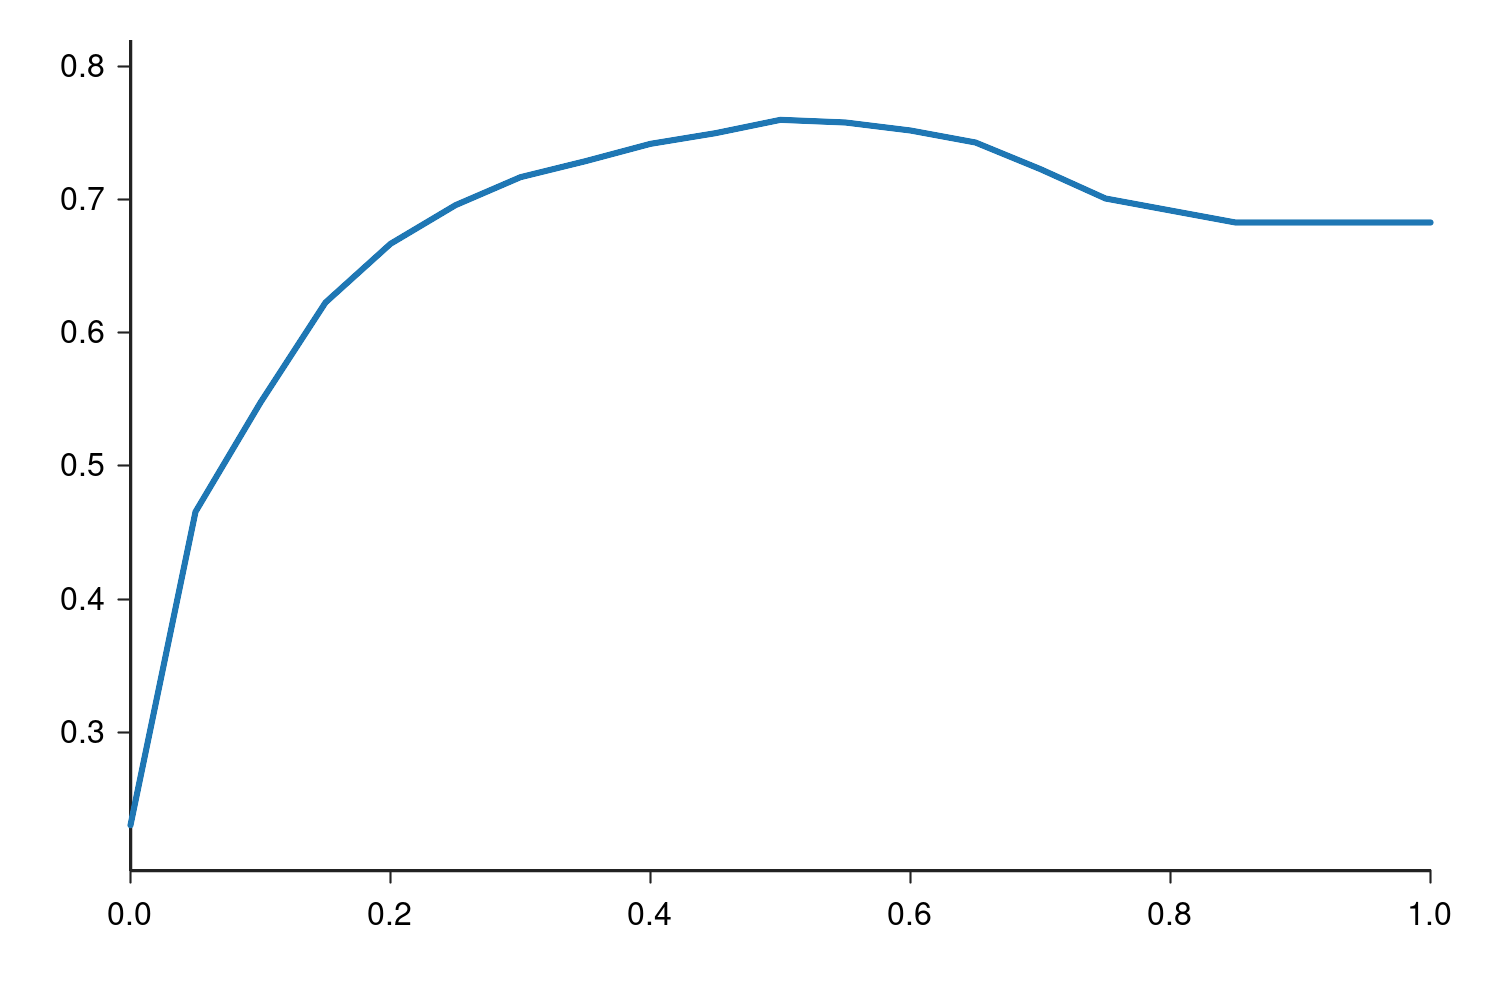
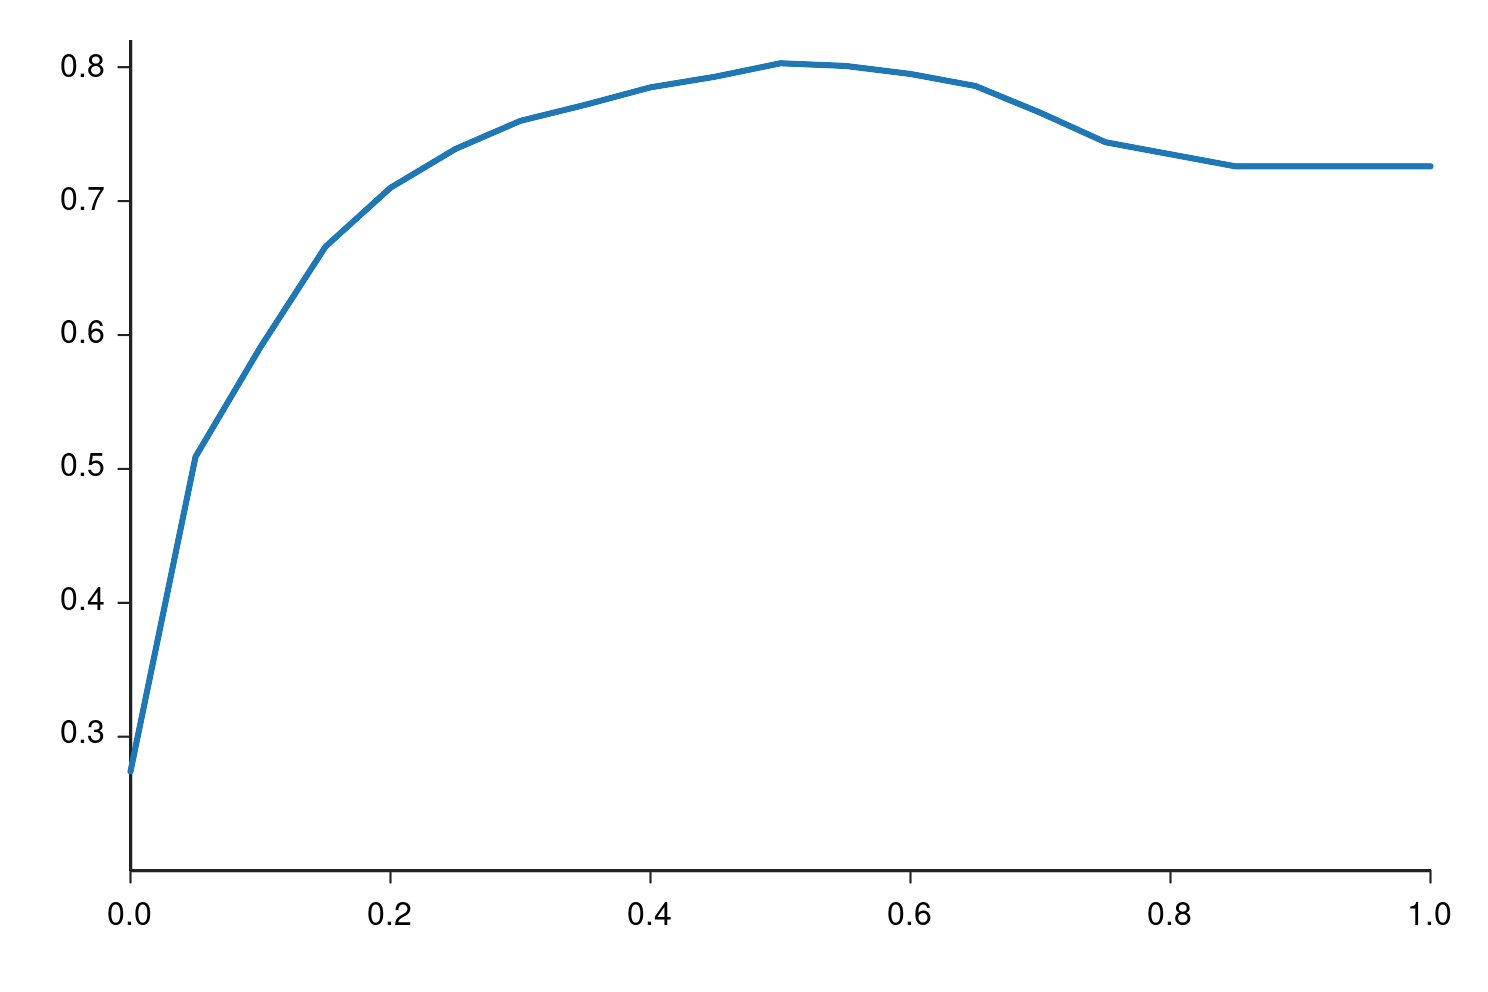
Repair accuracy threshold evaluation illustration

diff --git a/cohorts/2026/04-evaluation/images/2026-09-08-accuracy-repair-provenance.md b/cohorts/2026/04-evaluation/images/2026-09-08-accuracy-repair-provenance.md
@@ -1,0 +1,48 @@
+# Evaluation illustration repair provenance — 2026-09-08
+
+## Scope
+
+This record covers one published illustration and one Markdown reference:
+
+- `02-accuracy-01-accuracy-vs-threshold-crisp.png` was rebuilt from the 21 values printed in `../02-accuracy.md`.
+- The image reference to `03-confusion-table-07-accuracy-from-table-crisp.png` was removed from `../03-confusion-table.md` because the lesson already contains the native confusion table/output and the screenshot contains the incorrect `FP 8%` value. The JPG and PNG source assets were intentionally left in place.
+
+The other 16 unresolved evaluation assets are out of scope and are not being marked complete by this repair.
+
+## Accuracy plot source data
+
+The source of truth is the lesson output block in `../02-accuracy.md` (the `np.linspace(0, 1, 21)` loop), not the previous screenshot or its old curve:
+
+```text
+threshold: 0.00 0.05 0.10 0.15 0.20 0.25 0.30 0.35 0.40 0.45 0.50 0.55 0.60 0.65 0.70 0.75 0.80 0.85 0.90 0.95 1.00
+accuracy:  0.274 0.509 0.591 0.666 0.710 0.739 0.760 0.772 0.785 0.793 0.803 0.801 0.795 0.786 0.766 0.744 0.735 0.726 0.726 0.726 0.726
+```
+
+The previous PNG peaked around `0.76`; the repaired curve peaks at exactly `0.803` for threshold `0.50`.
+
+## Reproducible render
+
+`02-accuracy-01-accuracy-vs-threshold-source.svg` is a native deterministic SVG. Its comment and `data-*` attributes contain the exact values, and its path uses this explicit transform:
+
+```text
+x = 130 + 1300 * threshold
+y = 870 - (accuracy - 0.2) * 830 / 0.62
+```
+
+The published PNG was rendered from that SVG with ImageMagick:
+
+```bash
+convert -background white -alpha remove -alpha off \
+  02-accuracy-01-accuracy-vs-threshold-source.svg \
+  -depth 8 02-accuracy-01-accuracy-vs-threshold-crisp.png
+```
+
+No imagegen, enlargement, sharpening, or screenshot-derived curve was used. The original JPG remains preserved for historical/source comparison.
+
+## Validation
+
+- The source SVG and published PNG are both `1488×992`.
+- The path has 21 points at thresholds `0.00` through `1.00` in `0.05` increments.
+- The rendered path coordinates were checked against the 21 values above using the documented transform; the highest point is `0.803` at `0.50`.
+- The published PNG was inspected at native resolution and at the 608px lesson display width; axes, labels, curve, and peak remain crisp and readable.
+- `03-confusion-table.md` now retains the native code, output array, and Markdown table; only the duplicate image reference was removed.

diff --git a/cohorts/2026/04-evaluation/03-confusion-table.md b/cohorts/2026/04-evaluation/03-confusion-table.md
@@ -91,8 +91,6 @@ So 65% of all customers are true negatives, 7% false positives, 12% false negati
 
 Accuracy fits right back in: it is the sum of the diagonal - the correct decisions TN and TP - divided by the total. Here (922 + 210) / 1409 = 0.8034, the same 80% as before. What the table adds is the split of the remaining 20% into 7% of false positives and 12% of false negatives - two errors with very different business costs.
 
-![The confusion table with percentages: accuracy 80% is the sum of the diagonal](images/03-confusion-table-07-accuracy-from-table-crisp.png)
-
 ## Materials
 
 [Slides](https://www.slideshare.net/AlexeyGrigorev/ml-zoomcamp-4-evaluation-metrics-for-classification)
